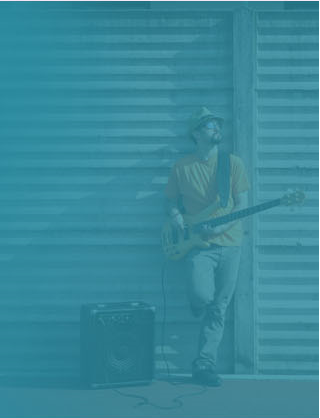
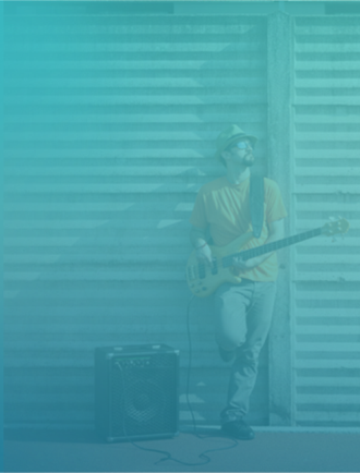
some detailed modifications

diff --git a/public_html/lib/css/mobile_home.css b/public_html/lib/css/mobile_home.css
@@ -1,2 +1,2 @@
 /* CSS crunched with Crunch - http://crunchapp.net/ */
-@media (max-width:767px){@font-face{font-family:'Roboto';font-style:normal;font-weight:100;src:local('Roboto Thin'),local('Roboto-Thin'),url(http://themes.googleusercontent.com/static/fonts/roboto/v9/vzIUHo9z-oJ4WgkpPOtg1_esZW2xOQ-xsNqO47m55DA.woff) format('woff');}body{height:2000px;width:100%;min-width:320px;font-family:'Roboto';padding-top:67px;position:relative;padding-left:0px;padding-right:0px;} #fms_brand{padding-left:10%;} header{height:auto;} .navbar-fixed-top{background-color:black;position:fixed;top:0;margin:0;} strong{font-weight:300;} #vidText{line-height:1;} .container button{margin-top:12px !important;} #loginBar button{margin-top:7px !important;} .brand{padding-top:10px !important;padding-bottom:5px !important;} .navbar-inner{min-height:1px !important;background-color:black !important;padding-bottom:1.5% !important;} .row-fluid{position:relative;width:100%;height:10%;} #video_container{background-image:url('../img/blue_artist.png');background-repeat:no-repeat;width:100%;height:480px;padding-left:0px;background-size:100%;position:relative;} #loginBar{position:relative;width:100%;background-color:rgba(0, 0, 0, 0.25);height:11.77%;} span#searchImg{position:relative;float:left;width:30%;height:100%;} span#loginText{position:absolute;float:left;width:20%;margin:15px;margin-left:30px;color:white;font-size:20px;} #signUpButton{position:relative;float:right;margin:5px;margin-right:10px;} #playVidBar{position:absolute;bottom:0;background-color:#232323;height:12.5%;font-weight:200;} #playVidBar span{font-size:25px !important;padding-top:3% !important;padding-left:10% !important;} #play_video_modal{background-color:#373737;} #search-collapse-div{height:50px;} #search-collapse-text{background-color:#373737;} #vidText{font-family:'Roboto';color:white;font-size:35px;position:absolute;padding-top:5px;padding-left:10px;} #anywhere{color:#125D60;font-family:'Roboto';font-weight:700;} #playVidBar span{color:white;font-size:30px;font-family:'Roboto';padding-top:20px;padding-left:20px;position:absolute;} #playIcon{float:right;} .home_contact_top{width:100%;padding-top:5%;} .home_contact_top_title1{padding-left:5%;} .home_contact_top_title1 a{font-size:18px;color:#69b5ed;} .featured_musicians{text-align:center;width:44%;height:auto;padding:0%;margin:5%;margin-right:0%;margin-bottom:0%;} .featured_musicians img{border-radius:5%;width:100%;height:auto;} .small{color:#90C9EF;font-size:14px;font-weight:600;padding-left:10px;} .span6{width:100%;} .span6 p{font-weight:300;font-size:1.8em;padding-top:2%;padding-bottom:2%;height:12%;} .featured_musicians a{width:100%;height:100%;border-radius:5%;} #featured-musicians{padding-bottom:60px;} #featured-projects{background:#D3D3D3;padding:10px;overflow-x:hidden;width:100%;-webkit-box-sizing:none;box-sizing:none;-moz-box-sizing:none;} .span3{width:220px;} #pop-projects-list{float:left;display:inline;-webkit-transition-property:-webkit-transform;-webkit-transition-duration:0.5s;-webkit-transition-timing-function:ease-out;width:1000px;overflow-x:hidden;-webkit-transform:translate3d(0px, 0px, 0px);} .carousel{float:left;display:inline;-webkit-transition-property:-webkit-transform;-webkit-transition-duration:0.5s;-webkit-transition-timing-function:ease-out;width:3000px;overflow-x:hidden;-webkit-transform:translate3d(0px, 0px, 0px);width:100%;} #pop-projects-list #card{-webkit-transform:translate3d(0px, 0px, 0px);margin-right:20px;} .home_contact_middle_bg{padding-right:0px;width:100%;height:120%;max-width:100%;margin-right:-100px;background-color:pink;} .home_contact_middle{background-image:none;background-color:#363636;padding-right:0px;padding-bottom:40%;width:100%;margin-right:-100px;} .home_contact_middle_left{padding-right:0px;position:relative;margin-top:-260px;margin-left:0px;margin-right:30px;width:90%;height:300px;} .home_contact_middle_left p{font-family:'Roboto','Helvetica Neue',Helvetica,Arial,sans-serif !important;font-size:17px;} .home_contact_middle_left button{width:90% !important;float:left;} .home_contact_middle_left .title{text-transform:uppercase;color:white;font-size:34px;line-height:1;font-weight:bold;font-family:'Roboto','Helvetica Neue',Helvetica,Arial,sans-serif !important;} .container{margin:0px;} #home_contact_container{width:100%;margin:0px;padding-right:0px;} .home_contact_middle_left .sign-in-fb{border:none;background-image:linear-gradient(to bottom, #40599b, #40599b);color:white;margin-bottom:0;} .logo{position:relative;left:15px;} .home_contact_top{width:100%;margin-bottom:0px;}}
+@media (max-width:767px){@font-face{font-family:'Roboto';font-style:normal;font-weight:100;src:local('Roboto Thin'),local('Roboto-Thin'),url(http://themes.googleusercontent.com/static/fonts/roboto/v9/vzIUHo9z-oJ4WgkpPOtg1_esZW2xOQ-xsNqO47m55DA.woff) format('woff');}body{height:2000px;width:100%;min-width:320px;font-family:'Roboto';padding-top:67px;position:relative;padding-left:0px;padding-right:0px;} #fms_brand{padding-left:10%;} header{height:auto;} .navbar-fixed-top{background-color:black;position:fixed;top:0;margin:0;} .icon-bar{width:5px;height:5px;line-height:5px;} .navbar-inverse .btn-navbar{color:#888888;} strong{font-weight:400;font-size:20px;color:#FFFFFF;} .container button{margin-top:12px !important;} #loginBar button{margin-top:9px !important;} .brand{padding-top:10px !important;padding-bottom:5px !important;} .navbar-inner{min-height:1px !important;background-color:black !important;padding-bottom:1.5% !important;} .row-fluid{position:relative;width:100%;height:10%;} #video_container{background-image:url('../img/blue_artist.png');background-repeat:no-repeat;width:100%;height:480px;padding-left:0px;background-size:100%;position:relative;} #loginBar{position:relative;width:100%;background-color:rgba(0, 0, 0, 0.25);height:13%;} #searchImg>img{margin-top:0px;height:100%;} span#searchImg{position:relative;float:left;width:30%;height:100%;} span#loginText{position:absolute;float:left;width:20%;margin-top:22px;margin-left:21%;color:white;font-weight:500;font-size:16px;} #signUpButton{position:relative;float:right;margin:5px;margin-right:10px;} #playVidBar{position:absolute;bottom:0;background-color:#232323;height:14.5%;font-weight:200;} .playIconDiv{height:100%;width:72px;background-color:#292929;float:right;} #playIcon{height:80%;margin-top:6px;margin-right:2px;float:right;} #playVidBar span{font-size:25px !important;padding-top:5% !important;padding-left:6% !important;font-weight:300;color:white;font-family:'Roboto';position:absolute;} #play_video_modal{background-color:#373737;} #search-collapse-div{height:50px;} #search-collapse-text{background-color:#373737;margin-top:1px;} #vidText{font-family:'Roboto';color:white;font-size:35px;line-height:85%;position:absolute;padding-top:5%;padding-left:5%;} #anywhere{color:#125D60;font-family:'Roboto';font-weight:700;} .home_contact_top{width:100%;padding-top:5%;} .home_contact_top_title1{padding-left:5%;} .home_contact_top_title1 a{font-size:18px;color:#69b5ed;} .featured_musicians{text-align:center;width:44%;height:auto;padding:0%;margin:5%;margin-right:0%;margin-bottom:0%;} .featured_musicians img{border-radius:5%;width:100%;height:auto;} .small{color:#90C9EF;font-size:14px;font-weight:600;padding-left:10px;} .span6{width:100%;} .span6 p{font-weight:300;font-size:1.8em;padding-top:2%;padding-bottom:2%;height:12%;} .featured_musicians a{width:100%;height:100%;border-radius:5%;} #featured-musicians{padding-bottom:60px;} #featured-projects{background:#D3D3D3;padding:10px;overflow-x:hidden;width:100%;-webkit-box-sizing:none;box-sizing:none;-moz-box-sizing:none;} .span3{width:220px;} #pop-projects-list{float:left;display:inline;-webkit-transition-property:-webkit-transform;-webkit-transition-duration:0.5s;-webkit-transition-timing-function:ease-out;width:1000px;overflow-x:hidden;-webkit-transform:translate3d(0px, 0px, 0px);} .carousel{float:left;display:inline;-webkit-transition-property:-webkit-transform;-webkit-transition-duration:0.5s;-webkit-transition-timing-function:ease-out;width:3000px;overflow-x:hidden;-webkit-transform:translate3d(0px, 0px, 0px);width:100%;} #pop-projects-list #card{-webkit-transform:translate3d(0px, 0px, 0px);margin-right:20px;} .home_contact_middle_bg{padding-right:0px;width:100%;height:120%;max-width:100%;margin-right:-100px;background-color:pink;} .home_contact_middle{background-image:none;background-color:#363636;padding-right:0px;padding-bottom:40%;width:100%;margin-right:-100px;} .home_contact_middle_left{padding-right:0px;position:relative;margin-top:-260px;margin-left:0px;margin-right:30px;width:90%;height:300px;} .home_contact_middle_left p{font-family:'Roboto','Helvetica Neue',Helvetica,Arial,sans-serif !important;font-size:17px;} .home_contact_middle_left button{width:90% !important;float:left;} .home_contact_middle_left .title{text-transform:uppercase;color:white;font-size:34px;line-height:1;font-weight:bold;font-family:'Roboto','Helvetica Neue',Helvetica,Arial,sans-serif !important;} .container{margin:0px;} #home_contact_container{width:100%;margin:0px;padding-right:0px;} .home_contact_middle_left .sign-in-fb{border:none;background-image:linear-gradient(to bottom, #40599b, #40599b);color:white;margin-bottom:0;} .logo{position:relative;left:15px;} .home_contact_top{width:100%;margin-bottom:0px;}}

diff --git a/public_html/lib/less/mobile_home.less b/public_html/lib/less/mobile_home.less
@@ -37,13 +37,20 @@
         top: 0;
         margin:0;
     }
+     .icon-bar{
+         width:5px;
+         height:5px;
+         line-height:5px;
+     }   
      
-     strong{
-           font-weight:300; 
+     .navbar-inverse .btn-navbar{
+         color:#888888;
      }
      
-     #vidText{
-        line-height:1;    
+     strong{
+           font-weight:400; 
+           font-size:20px;
+           color:#FFFFFF;
      }
      
      .container button{
@@ -51,7 +58,7 @@
      }
      
      #loginBar button{
-        margin-top:7px !important;   
+        margin-top:9px !important;   
      }
      .brand{
         padding-top:10px !important;
@@ -83,7 +90,11 @@
             position: relative;
             width: 100%;
             background-color: rgba(0,0,0,0.25);
-            height:11.77%
+            height:13%
+        }
+        #searchImg > img{
+            margin-top:0px;
+            height:100%;
         }
         
         span#searchImg{
@@ -96,10 +107,11 @@
             position: absolute;
             float: left;
             width:20%;
-            margin:15px;
-            margin-left:30px;
+            margin-top:22px;
+            margin-left:21%;
             color:white;
-            font-size:20px;
+            font-weight:500;
+            font-size:16px;
         }
         
         #signUpButton {
@@ -113,14 +125,31 @@
             position:absolute;
             bottom: 0;
             background-color:#232323;
-            height:12.5%;
+            height:14.5%;
             font-weight:200;
+        }
+        .playIconDiv{
+            height:100%;
+            width:72px;
+            background-color:#292929;
+            float:right;
+        }
+        
+        #playIcon{
+            height:80%;
+            margin-top:6px;
+            margin-right:2px;
+            float: right;
         }
         
         #playVidBar span{
             font-size:25px !important;
-            padding-top:3% !important;
-            padding-left:10% !important;
+            padding-top:5% !important;
+            padding-left:6% !important;
+            font-weight:300;
+            color:white;
+            font-family: 'Roboto';
+            position:absolute;
         }
         
         #play_video_modal {
@@ -133,35 +162,23 @@
         
         #search-collapse-text {
             background-color:#373737;
+            margin-top:1px;
         }
         
         #vidText {
             font-family: 'Roboto';
             color:white;
             font-size:35px;
+            line-height:85%;
             position:absolute;
-            padding-top:5px;
-            padding-left:10px;
+            padding-top:5%;
+            padding-left:5%;
         }
         
         #anywhere {
             color: #125D60;
             font-family: 'Roboto';
             font-weight: 700;
-        }
-        
-        
-        #playVidBar span{
-            color:white;
-            font-size: 30px; 
-            font-family: 'Roboto';
-            padding-top:20px;
-            padding-left:20px;
-            position:absolute;
-        }
-        
-        #playIcon {
-            float: right;   
         }
         
         

diff --git a/public_html/homepage.html b/public_html/homepage.html
@@ -184,8 +184,8 @@
             <span>
                 Play the video!
             </span>
-            <a href="#play_video_modal" role="button" data-toggle="modal">
-                <img id="playIcon" src="img/home_page/play_vid_icon.png"/>
+            <div class="playIconDiv"><a href="#play_video_modal" role="button" data-toggle="modal">
+                <img id="playIcon" src="img/home_page/play_vid_icon.png"/></div>
             </a>
 
 
